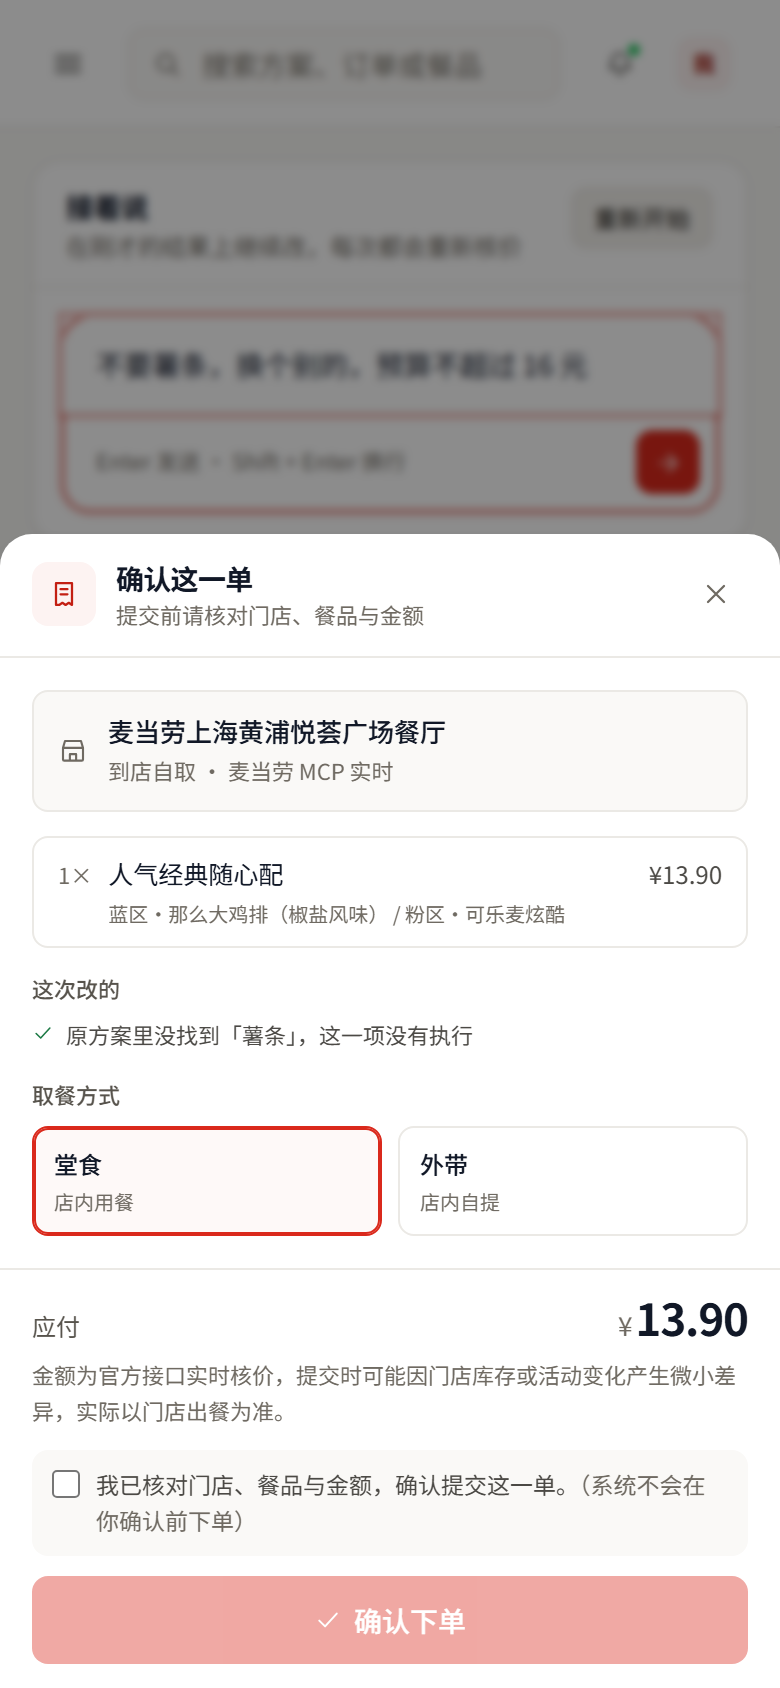
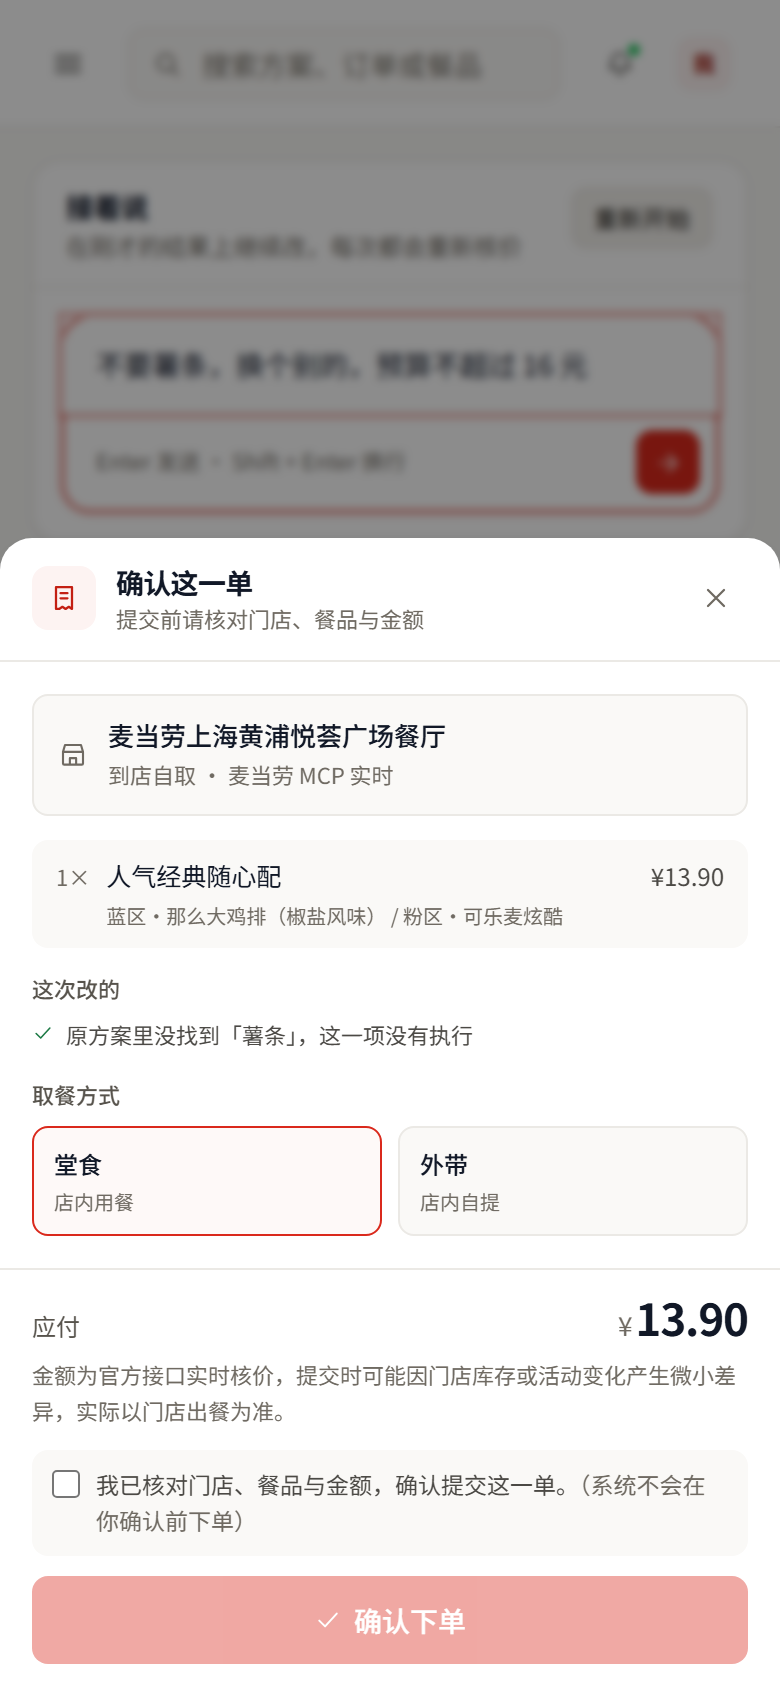
收敛为单层卡片：面板里不再套白卡
stylekit 的自检清单里有一条「没有嵌套卡片」，逐处核对后发现三处违规：
方案条目、候选选项、确认弹层里的餐品清单都是白卡直接嵌在白面板里，
视觉上等于「卡片套卡片」。

改法：面板内部分组一律用 #faf9f7 浅底块 + 发丝线（#f0eee9）分隔，
白卡只保留在面板这一层。选中态改用品牌色描边 + 极淡红底，不再叠加
内阴影或再加一层 elevation。

一并修正
- 侧栏/store picker/取餐方式/About 四步流程/保存清单同样改成浅底块
- About 的步骤序号、概览的排名与百分比、日期行里的门店名原来用
  #c0bcb4（2.0:1），提到 #6f6a62 / #57534c
- README「间距与密度」补一条分层规则，把「只有一层卡片」写成约定

79 测试全绿 / tsc 无错误 / CSS gzip 6.65 KB + JS gzip 96.46 KB
11 张截图重拍，控制台零报错

diff --git a/src/components/ConfirmSheet.tsx b/src/components/ConfirmSheet.tsx
@@ -177,8 +177,8 @@ export function ConfirmSheet({
               </div>
 
               {/* 餐品 */}
-              <div className="rounded-lg border border-line">
-                <ul className="divide-y divide-line">
+              <div className="overflow-hidden rounded-lg bg-[#faf9f7]">
+                <ul className="divide-y divide-[#f0eee9]">
                   {items.map((item, i) => {
                     // 金额按商品编码从官方核价结果里取；取不到就不显示金额，绝不猜
                     const line = preview.price.lines.find((l) => l.productCode === item.productCode);
@@ -202,7 +202,7 @@ export function ConfirmSheet({
                 {/* 只有真的存在优惠时才展开原价/优惠明细；
                     否则它会和底部的「应付」变成两个一样的数字 */}
                 {preview.price.discountCents > 0 ? (
-                  <div className="space-y-1 border-t border-line bg-[#faf9f7] px-3 py-2 text-[12px]">
+                  <div className="space-y-1 border-t border-[#f0eee9] bg-white/60 px-3 py-2 text-[12px]">
                     <div className="flex justify-between text-[#57534c]">
                       <span>商品原价</span>
                       <span className="tnum">¥{yuan(preview.price.originalPriceCents)}</span>
@@ -239,10 +239,10 @@ export function ConfirmSheet({
                       onClick={() => setTakeWay(t.code)}
                       aria-pressed={takeWay === t.code}
                       className={cx(
-                        'rounded-lg border px-2.5 py-2 text-left transition-all duration-150 ease-out',
+                        'rounded-lg border px-2.5 py-2 text-left transition-colors duration-150 ease-out',
                         takeWay === t.code
-                          ? 'border-brand-500 bg-brand-50/50 shadow-[inset_0_0_0_1px_#da291c]'
-                          : 'border-line hover:border-[#d8d4cd] hover:bg-[#faf9f7]',
+                          ? 'border-brand-500 bg-brand-50/50'
+                          : 'border-line bg-[#faf9f7] hover:bg-[#f4f2ee]',
                       )}
                     >
                       <span className="block truncate text-[12px] font-medium text-[#111827]">{t.title}</span>

diff --git a/src/views/Overview.tsx b/src/views/Overview.tsx
@@ -53,14 +53,14 @@ function TopItems({ items, total }: { items: TopItem[]; total: number }) {
         <li key={it.productCode} className="group">
           <div className="flex items-baseline justify-between gap-2">
             <span className="flex min-w-0 items-baseline gap-1.5">
-              <span className="tnum w-3 shrink-0 text-[10px] text-[#c0bcb4]">{i + 1}</span>
+              <span className="tnum w-3 shrink-0 text-[10px] text-[#6f6a62]">{i + 1}</span>
               <span className="truncate text-[12px] text-[#4b4945]" title={it.name}>
                 {it.name}
               </span>
             </span>
             <span className="tnum shrink-0 text-[11px] text-[#6f6a62]">
               {it.count} 次
-              <span className="ml-1 text-[10px] text-[#c0bcb4]">{Math.round((it.count / Math.max(total, 1)) * 100)}%</span>
+              <span className="ml-1 text-[10px] text-[#6f6a62]">{Math.round((it.count / Math.max(total, 1)) * 100)}%</span>
             </span>
           </div>
           <div className="mt-1 h-1.5 overflow-hidden rounded-full bg-[#f2f0ec]">
@@ -105,7 +105,7 @@ export function Overview(props: OverviewProps) {
         <div className="min-w-0">
           <p className="truncate text-[11px] text-[#6f6a62]">
             {dateLabel}
-            {storeName ? <span className="text-[#c0bcb4]"> · {storeName}</span> : null}
+            {storeName ? <span className="text-[#57534c]"> · {storeName}</span> : null}
           </p>
           <h1 className="mt-1 text-xl font-semibold tracking-tight text-[#111827] md:text-2xl">
             今天，还是<span className="text-brand-600">老样子</span>吗？

diff --git a/src/components/AdjustResultView.tsx b/src/components/AdjustResultView.tsx
@@ -204,10 +204,8 @@ function CandidateCard({ candidate, active, onSelect }: { candidate: CandidatePl
         }
       }}
       className={cx(
-        'cursor-pointer rounded-lg border p-3 transition-all duration-150 ease-out',
-        active
-          ? 'border-brand-500 bg-white shadow-[inset_0_0_0_1px_#da291c]'
-          : 'border-line bg-white hover:border-[#d8d4cd] hover:shadow-card',
+        'cursor-pointer rounded-lg border p-3 transition-colors duration-150 ease-out',
+        active ? 'border-brand-500 bg-brand-50/50' : 'border-line bg-[#faf9f7] hover:bg-[#f4f2ee]',
       )}
     >
       <div className="flex items-start gap-2">
@@ -330,7 +328,7 @@ export function AdjustResultView({
   return (
     <div className="space-y-3">
       {/* 用户原话 + 解析出的修改点：先让用户确认「我理解对了没有」 */}
-      <div className="rounded-lg border border-line bg-white p-3.5">
+      <div className="rounded-lg bg-[#faf9f7] p-3.5">
         <p className="text-[11px] text-[#6f6a62]">你刚才说</p>
         <p className="mt-1 text-[13px] leading-relaxed text-[#111827]">「{result.intent.raw}」</p>
         <ChangeTags result={result} />

diff --git a/src/components/StorePicker.tsx b/src/components/StorePicker.tsx
@@ -101,10 +101,10 @@ export function StoreSearch({ defaultCity, beType, currentStoreCode, onPick }: S
                   type="button"
                   onClick={() => onPick(s)}
                   className={cx(
-                    'flex w-full items-center gap-2.5 rounded-lg border p-2.5 text-left transition-all duration-150 ease-out',
+                    'flex w-full items-center gap-2.5 rounded-lg border p-2.5 text-left transition-colors duration-150 ease-out',
                     active
-                      ? 'border-brand-500 bg-brand-50/40'
-                      : 'border-line bg-white hover:border-[#d8d4cd] hover:bg-[#faf9f7]',
+                      ? 'border-brand-500 bg-brand-50/50'
+                      : 'border-line bg-[#faf9f7] hover:bg-[#f4f2ee]',
                   )}
                 >
                   <span className={cx('grid h-8 w-8 shrink-0 place-items-center rounded-lg', active ? 'bg-brand-100 text-brand-700' : 'bg-[#f2f0ec] text-[#6f6a62]')}>

diff --git a/src/views/AboutView.tsx b/src/views/AboutView.tsx
@@ -46,8 +46,8 @@ export function AboutView({
           <CardHead title="它到底做了什么" desc="四步，每一步都可以被你打断和纠正" />
           <ol className="grid grid-cols-1 gap-3 p-4 sm:grid-cols-2 md:p-5">
             {FLOW.map((f) => (
-              <li key={f.step} className="rounded-lg border border-line p-3">
-                <span className="tnum text-[11px] text-[#c0bcb4]">{f.step}</span>
+              <li key={f.step} className="rounded-lg bg-[#faf9f7] p-3">
+                <span className="tnum text-[11px] text-[#6f6a62]">{f.step}</span>
                 <p className="mt-1 text-[13px] font-medium text-[#111827]">{f.title}</p>
                 <p className="mt-1 text-[11.5px] leading-relaxed text-[#57534c]">{f.body}</p>
               </li>

diff --git a/src/App.tsx b/src/App.tsx
@@ -491,7 +491,7 @@ export default function App() {
                 <p className="mb-1.5 text-[11px] text-[#57534c]">
                   将保存以下 {selectedCandidate.items.length} 项（结构化编码，不是一句话）
                 </p>
-                <ul className="divide-y divide-line rounded-lg border border-line">
+                <ul className="divide-y divide-[#f0eee9] overflow-hidden rounded-lg bg-[#faf9f7]">
                   {selectedCandidate.items.map((it, i) => (
                     <li key={i} className="flex items-baseline gap-2 px-2.5 py-1.5">
                       <span className="tnum shrink-0 text-[11px] text-[#6f6a62]">{it.quantity}×</span>

diff --git a/src/components/PlansGrid.tsx b/src/components/PlansGrid.tsx
@@ -60,7 +60,7 @@ export function PlansGrid({ plans, loading, onUse, onDuplicate, onRename, onDele
         return (
           <article
             key={p.id}
-            className="group flex flex-col rounded-lg border border-line bg-white p-3.5 transition-all duration-150 ease-out hover:border-[#e2dfd9] hover:shadow-card"
+            className="group flex flex-col rounded-lg bg-[#faf9f7] p-3.5 transition-colors duration-150 ease-out hover:bg-[#f4f2ee]"
           >
             <div className="flex items-start justify-between gap-2">
               <div className="min-w-0">

diff --git a/docs/DEVELOPMENT_SUMMARY.md b/docs/DEVELOPMENT_SUMMARY.md
@@ -91,7 +91,8 @@ v4 的关键界面：首屏"今天，还是老样子？"（标题 / 输入 / 主
 6. 订单表门店列被截成「麦当劳上海浦东第二工业大…」→ 列宽 `max-w-[150px]` 放宽到 `[190px]`；
 7. 截图里吸底栏在整页截图中压住侧栏 → 截图脚本显式给吸底栏补 `margin-left: 256px`（宽屏时）；
 8. 真实流程点击后 502：`{"code":"MCP_TOOL","message":"门店可能已关闭或不在营业时间"}` —— 默认门店 1450543 在 22:15 已打烊，**不是界面缺陷**。换用营业到 23:59 的「悦荟广场餐厅」（`1450104`）后跑通；
-9. 收尾自查时把说明文字的灰阶实际算了一遍：`#8a877f` 在白底只有 **3.59:1**，低于 WCAG AA 的 4.5:1。整条灰阶整体下移一档（`#111827` / `#57534c` / `#6f6a62` / 占位 `#7a756c`），侧栏的 `white/30`–`white/40` 提到 `white/55`–`white/60`，并逐对复核 Badge / Alert / 按钮 / 涨跌色，全部 ≥4.5:1。页面比之前略重一点，但 10px 的小字真的读得清了。
+9. 收尾自查时把说明文字的灰阶实际算了一遍：`#8a877f` 在白底只有 **3.59:1**，低于 WCAG AA 的 4.5:1。整条灰阶整体下移一档（`#111827` / `#57534c` / `#6f6a62` / 占位 `#7a756c`），侧栏的 `white/30`–`white/40` 提到 `white/55`–`white/60`，并逐对复核 Badge / Alert / 按钮 / 涨跌色，全部 ≥4.5:1。页面比之前略重一点，但 10px 的小字真的读得清了；
+10. 同一轮还揪出三处「白卡套白卡」：方案条目、候选选项、"你刚才说"回声块原来都是白色卡片，直接嵌在白色面板里。改成 `#faf9f7` 浅底块 + 发丝线分隔，选中态用品牌色描边表示。全站从"卡片叠卡片"收敛为"只有一层卡片"，其余分组一律浅底。
 
 **验收结果：**
 

diff --git a/README.md b/README.md
@@ -136,6 +136,7 @@
 - KPI 用 `grid-cols-1 sm:grid-cols-2 xl:grid-cols-4`，中小屏逐级降到 2 列和 1 列
 - 面板间距统一 `gap-3 md:gap-4`，卡片内边距 `p-4 md:p-5`，不做「每个面板自己一套间距」
 - 面板**大小不一**：主图占 2/3、辅图 1/3，方案区 2/3、单品榜 1/3，表格全宽。四块等大的网格看起来像占位符
+- **只分一层**：白卡浮在 `canvas` 上；卡片内部的分组一律用 `#faf9f7` 浅底块或发丝线分隔，不再套白卡。所以方案条目、候选选项、门店选项、确认页的餐品清单都是浅底块，而不是"卡片里的卡片"——选中态用品牌色描边 + 极淡红底表示，不靠再加一层阴影
 
 ### 加载态与空状态
 
